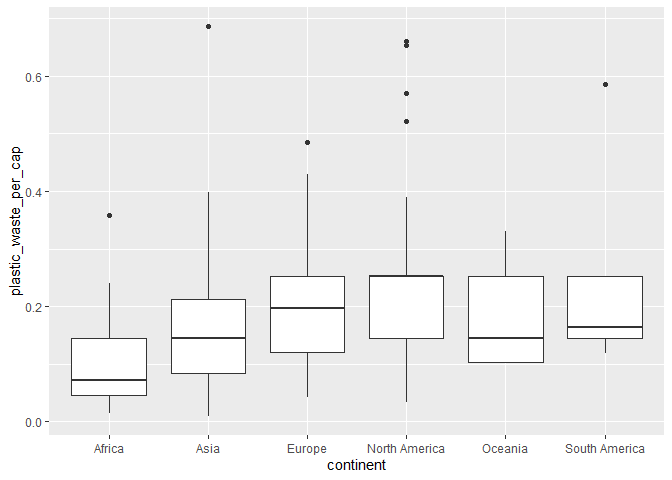
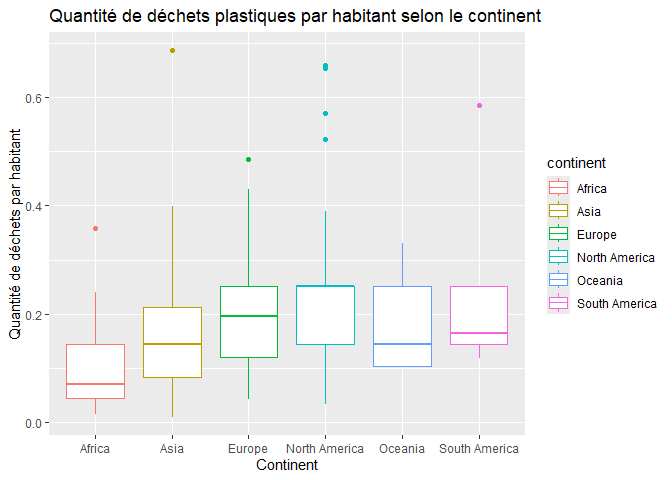
Derniers détails corrigés

diff --git a/lab-02.md b/lab-02.md
@@ -12,7 +12,8 @@ library(tidyverse)
 ``` r
 plastic_waste <- read_csv("data/plastic-waste.csv")
 
-ggplot(data = plastic_waste, aes(x = plastic_waste_per_cap)) +
+ggplot(data = plastic_waste, 
+       aes(x = plastic_waste_per_cap)) +
   geom_histogram(binwidth = 0.2)
 ```
 
@@ -46,7 +47,8 @@ plastic_waste <- plastic_waste %>%
 ### Exercise 1
 
 ``` r
-ggplot(plastic_waste, aes(x = plastic_waste_per_cap )) +
+ggplot(plastic_waste, 
+       aes(x = plastic_waste_per_cap )) +
   geom_histogram(binwidth = 0.25) +
   facet_wrap(~ continent) +
   labs(title = "Distribution de la quatité de déchets plastiques par habitant classée par continent",
@@ -64,9 +66,10 @@ plastiques qui se retrouvent proche de 0,00 kg/pers.
 ### Exercise 2
 
 ``` r
-ggplot(plastic_waste, aes(x = plastic_waste_per_cap,
-                          color = continent,
-                          fill = continent)) + 
+ggplot(plastic_waste, 
+       aes(x = plastic_waste_per_cap,
+           color = continent,
+           fill = continent)) + 
   geom_density(adjust = 2,
                alpha = 0.4) + 
   labs(title = "Quantité de déchets plastiques selon la densité par continent",
@@ -92,9 +95,14 @@ transparente. On peut lui assigner toutefois une couleur.
 Boxplot:
 
 ``` r
-ggplot(plastic_waste, aes(x = continent,
-                          y = plastic_waste_per_cap)) + 
-  geom_boxplot()
+ggplot(plastic_waste, 
+       aes(x = continent,
+           y = plastic_waste_per_cap,
+           color = continent)) + 
+  geom_boxplot() +
+  labs(title = "Quantité de déchets plastiques par habitant selon le continent",
+       x = "Continent",
+       y = "Quantité de déchets par habitant")
 ```
 
 ![](lab-02_files/figure-gfm/plastic-waste-boxplot-1.png)<!-- -->
@@ -102,9 +110,14 @@ ggplot(plastic_waste, aes(x = continent,
 Violin plot:
 
 ``` r
-ggplot(plastic_waste, aes(x = continent,
-                          y = plastic_waste_per_cap)) +
-  geom_violin()
+ggplot(plastic_waste, 
+       aes(x = continent,
+           y = plastic_waste_per_cap, 
+           color = continent)) +
+  geom_violin() +
+  labs(title = "Quantité de déchets plastiques par habitant selon le continent",
+       x = "Continent",
+       y = "Quantité de déchets par habitant")
 ```
 
 ![](lab-02_files/figure-gfm/plastic-waste-violin-1.png)<!-- -->
@@ -122,9 +135,10 @@ l’intervalle auquel ils se situent.
 ### Exercise 4
 
 ``` r
-ggplot(plastic_waste, aes(x = plastic_waste_per_cap,
-                          y = mismanaged_plastic_waste_per_cap,
-                          color = continent)) + 
+ggplot(plastic_waste, 
+       aes(x = plastic_waste_per_cap,
+           y = mismanaged_plastic_waste_per_cap,
+           color = continent)) + 
   geom_point() + 
   labs(title = "Relation entre la quantité de déchet et la quantité de déchets non gérés par habitant",
        x = "Quantité de déchets par habitant",
@@ -147,8 +161,10 @@ les pays d’Europe.
 ### Exercise 5
 
 ``` r
-ggplot(plastic_waste, aes(x = plastic_waste_per_cap,
-                          y = total_pop)) + 
+ggplot(plastic_waste, 
+       aes(x = plastic_waste_per_cap,
+           y = total_pop)) + 
+  
   geom_point() +
   labs(title = "Relation entre la quantité de déchets plastiques par habitant et le nombre total d'habitants",
        x = "Quantité de déchets plastiques par habitant",
@@ -161,9 +177,11 @@ ggplot(plastic_waste, aes(x = plastic_waste_per_cap,
 ![](lab-02_files/figure-gfm/plastic-waste-population-total-1.png)<!-- -->
 
 ``` r
-ggplot(plastic_waste, aes(x = plastic_waste_per_cap,
-                          y = coastal_pop)) +
-         geom_point() +
+ggplot(plastic_waste, 
+       aes(x = plastic_waste_per_cap,
+           y = coastal_pop)) +
+  
+  geom_point() +
   labs(title = "Relation entre la quantité de déchets plastiques par habitant et le nombre total d'habitants vivant près d'une côte",
        x = "Quantité de déchets plastiques par habitant",
        y = "Nombre total d'habitants vivant près d'une côte")
@@ -186,17 +204,21 @@ plastic_waste_coastal <- plastic_waste %>%
   mutate(coastal_pop_prop = coastal_pop / total_pop) %>%
   filter(plastic_waste_per_cap < 3)
 
-ggplot(plastic_waste, aes(x = coastal_pop / total_pop,
-                          y = plastic_waste_per_cap,
-                          color = continent)) + 
+ggplot(plastic_waste, 
+       aes(x = coastal_pop / total_pop,
+           y = plastic_waste_per_cap,
+           color = continent)) + 
+  
   geom_point() +
+  
   geom_smooth(method = "loess",
               color = "black",
               fill = "grey") + 
   labs(title = "Quantité de déchets plastiques par habitant vs Proportion de la population côtière",
        subtitle = "Selon le continent",
        x = "Proportion de la population côtière (Coastal / total population)",
-       y = "Quantité de déchets plastiques par habitant")
+       y = "Quantité de déchets plastiques par habitant",
+       color = "Continent")
 ```
 
     ## `geom_smooth()` using formula = 'y ~ x'
